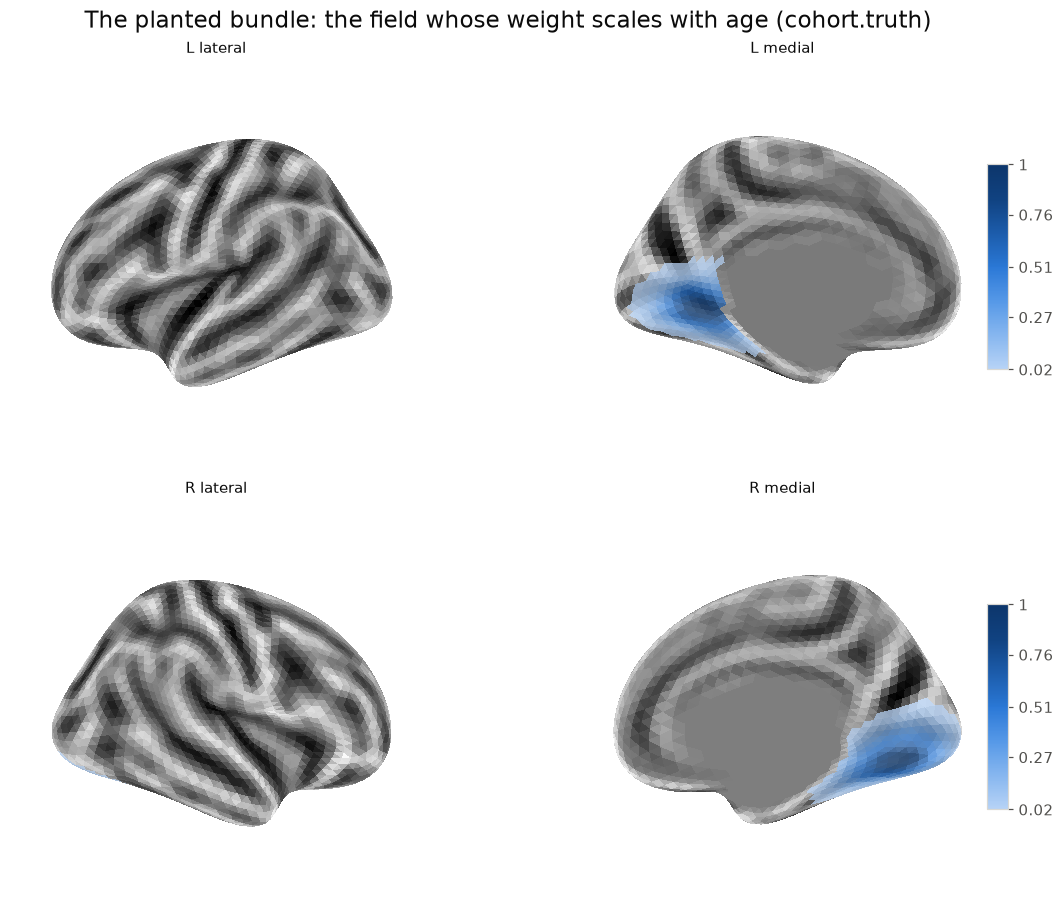
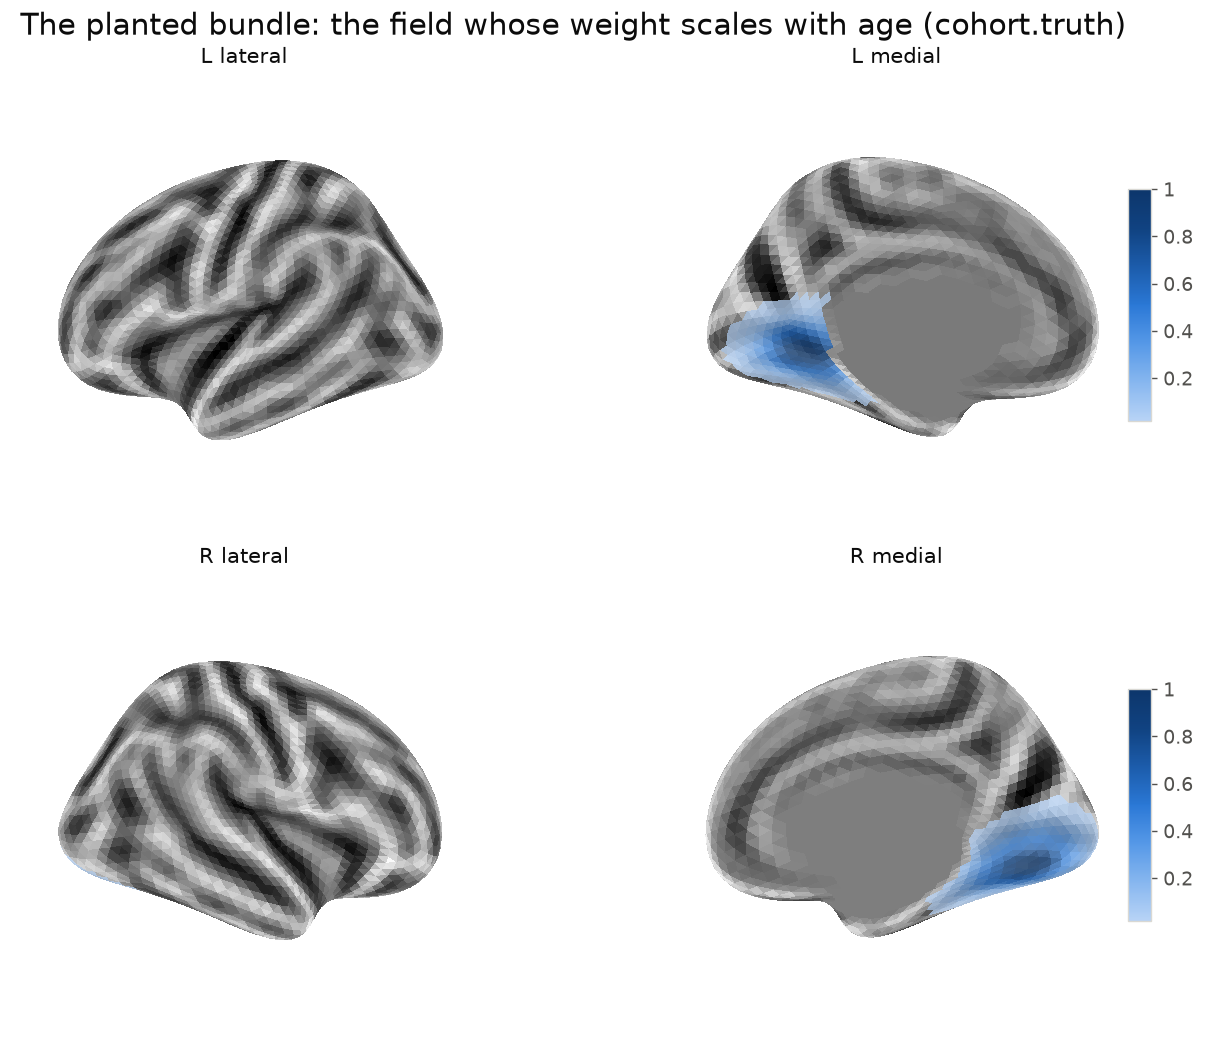
Round colorbar ticks on surface figures, and larger text throughout
nilearn places colorbar ticks at the threshold and at quarter points of what
is left, which printed 0.27, 0.51, 0.76 on a map thresholded at 0.02 and,
on a symmetric scale, a -0.05 on top of a 0.05. plot_surface() now gives
every colorbar round ticks at readable spacing (MaxNLocator, %g) and larger
labels, and its panel titles are 12 point. The example figures are drawn
with 17-point titles, two-line titles clear of the panel labels, and at
125 dpi; the README shows the planted-bundle and recovered-effect figures
one above the other instead of side by side, which had halved their size.

diff --git a/scripts/make_figures.py b/scripts/make_figures.py
@@ -39,7 +39,7 @@ SURFACE_RAMP = LinearSegmentedColormap.from_list(
 #: so the profile and the region matrix are smooth rather than speckled.
 N_STREAMLINES = 200_000
 VIEWS = ("lateral", "medial")
-TITLE_SIZE = 15  # the surface figures are large; a 12-point title reads as a footnote on them
+TITLE_SIZE = 17  # the surface figures are large; a 12-point title reads as a footnote on them
 
 plt.rcParams.update(
     {
@@ -58,7 +58,7 @@ plt.rcParams.update(
 )
 
 
-def save(figure, out: Path, name: str, dpi: int = 110) -> None:
+def save(figure, out: Path, name: str, dpi: int = 125) -> None:
     path = out / name
     figure.savefig(path, dpi=dpi, bbox_inches="tight")
     plt.close(figure)
@@ -95,7 +95,7 @@ def seed_profile(out: Path, cc) -> None:
         f"Where one vertex connects to: the density of streamlines between vertex {SEED} "
         "(orange dot, left temporal cortex)\nand every other vertex, relative to the strongest",
         fontsize=TITLE_SIZE,
-        y=1.06,
+        y=1.11,  # two lines at this size need clearance above the panel labels
     )
     save(figure, out, "seed_profile.png")
 
@@ -177,7 +177,7 @@ def cohort_figures(out: Path) -> None:
         "Recovered: the effect map of the component that tracks age\n"
         f"(correlation with the planted field {correlation:.2f})",
         fontsize=TITLE_SIZE,
-        y=1.06,
+        y=1.11,  # two lines at this size need clearance above the panel labels
     )
     save(figure, out, "cohort_effect.png")
 

diff --git a/src/sbci/plotting.py b/src/sbci/plotting.py
@@ -187,8 +187,20 @@ def plot_surface(
                 **({"bg_map": backgrounds[side]} if side in backgrounds else {}),
                 **kwargs,
             )
-            axes[row, column].set_title(f"{side} {view}", fontsize=10)
+            axes[row, column].set_title(f"{side} {view}", fontsize=12)
+
+    # nilearn places colorbar ticks at the threshold and at quarter points of
+    # what is left, which gives 0.27, 0.51, 0.76 and, on a symmetric scale, a
+    # -0.05 printed over a 0.05. Round ticks at readable spacing instead.
+    from matplotlib.ticker import FormatStrFormatter, MaxNLocator
+
+    grid = {id(axis) for axis in axes.ravel()}
+    for extra in figure.axes:
+        if id(extra) not in grid:  # a colorbar
+            extra.yaxis.set_major_locator(MaxNLocator(nbins=5, steps=[1, 2, 2.5, 5, 10]))
+            extra.yaxis.set_major_formatter(FormatStrFormatter("%g"))
+            extra.tick_params(labelsize=11)
 
     if title:
-        figure.suptitle(title)
+        figure.suptitle(title, fontsize=15)
     return figure

diff --git a/README.md b/README.md
@@ -151,15 +151,19 @@ onto a common template, `aligned_endpoints(i)` hands them back, and
 `smooth()` turns them into aligned connectomes (USAGE.md shows the three
 lines). Timings are for four cores.
 
-| The planted bundle, `cohort.truth` | What the analysis recovers |
-| --- | --- |
-| ![The planted bundle](docs/figures/cohort_truth.png) | ![The recovered effect map](docs/figures/cohort_effect.png) |
+![The planted bundle](docs/figures/cohort_truth.png)
+
+*The planted bundle, `cohort.truth`: the field whose weight was scaled with
+age.*
+
+![The recovered effect map](docs/figures/cohort_effect.png)
+
+*What the analysis recovers: the effect map of the one component `local_test`
+found significant, which correlates 0.94 with the planted field.*
 
 ![The significant component's scores against age](docs/figures/cohort_scores.png)
 
-*Left: the field whose weight was scaled with age. Right: the effect map of the
-one component `local_test` found significant, which correlates 0.94 with it.
-Below: that component's scores against the synthetic age.*
+*That component's scores against the synthetic age.*
 
 ## Getting around the package
 
